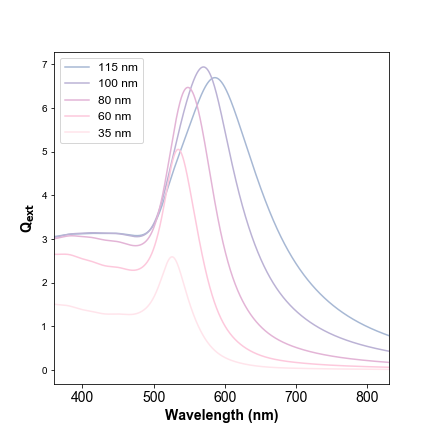
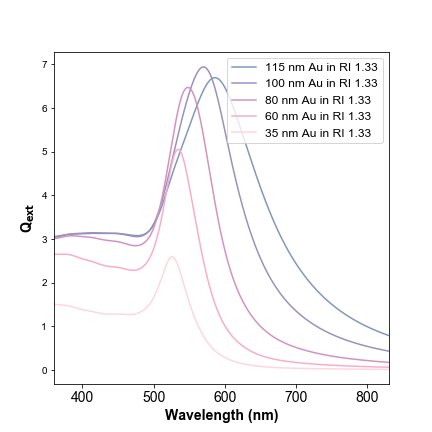
changed RI data to include multiple materials

diff --git a/modelNanoSize_Hall_monodisperse_modeling_noOpenCV_2_0.py b/modelNanoSize_Hall_monodisperse_modeling_noOpenCV_2_0.py
@@ -45,16 +45,25 @@ import PyMieScatt as ps
 import datetime
 from scipy.interpolate import interp1d
 import sys
-
-figureDPI=72
-savefigureFlag=True
-
 if sys.version_info >= (3, 0):
     import xarray as xr
     storeXarray=True
 else:
     storeXarray=False
-    
+
+
+material='Cu'
+ris=np.array([1.33, 1.38, 1.43]) 
+#ris=np.arange(1,2,0.005)
+diameters=np.array([115,100,80,60,35])
+#diameters=np.arange(30,120,1)
+diameter_stdevs=diameters*0.1
+opticalDensity=0.1
+#scaleFactorPoly=0.4
+figureDPI=72
+savefigureFlag=True
+
+   
 XYZtolRGB=np.array([[3.2406255,-1.537208,-0.4986286],[-0.9689307,1.8757561,0.0415175],[0.0557101,-0.2040211,1.0569959]])
 
 def single_gauss_func(x, a, x0, sigma):
@@ -170,36 +179,11 @@ D65=fD65(waves)
 illum=D65
 Yr=np.trapz(CIEY*illum, waves)
 
-nDataFrame=pd.read_csv('Johnson.csv',skiprows=0,nrows=49)
-kDataFrame=pd.read_csv('Johnson.csv',skiprows=50,nrows=49)
-fSplineN = interp1d(nDataFrame.values[:,0]*1000, nDataFrame.values[:,1], kind='cubic')
-fSplineK = interp1d(kDataFrame.values[:,0]*1000, kDataFrame.values[:,1], kind='cubic')
+riDataFrame=pd.read_csv('Johnson_ComplexRI.csv',skiprows=0,nrows=49)
+fSplineN = interp1d(riDataFrame['wl'].values*1000, riDataFrame[material+'_n'].values, kind='cubic')
+fSplineK = interp1d(riDataFrame['wl'].values*1000, riDataFrame[material+'_k'].values, kind='cubic')
 m=fSplineN(waves) + 1j * fSplineK(waves)
 
-#ris=np.arange(1,2,0.005)
-#diameters=np.arange(30,120,1)
-ris=np.array([1.33, 1.38, 1.43]) 
-diameters=np.array([115,100,80,60,35])
-diameter_stdevs=diameters*0.1
-
-#gen='G3'
-#diameter=34.1
-#diameter_stdev=6.7
-
-#gen='G5'
-#diameter=59.8
-#diameter_stdev=7.7
-
-#gen='G7'
-#diameter=81.5
-#diameter_stdev=7.6
-
-#gen='G9'
-#diameter=115
-#diameter_stdev=17
-
-scaleFactorMono=16
-scaleFactorPoly=0.4
 colorDataMono=[]
 colorDataPoly=[]
 bextArray=np.zeros((waves.shape[0]))
@@ -215,7 +199,7 @@ for diameter,diameter_stdev in zip(diameters,diameter_stdevs):
         wavelengths,qext,qsca,qabs,g,qpr,qback,qratio=ps.MieQ_withWavelengthRange(m, diameter, nMedium=ri, wavelengthRange=waves)
         lmax=waves[(waves>450) & (waves<800)][np.argmax(qext[(waves>450) & (waves<800)])]
         #RGB, HSV, LAB, XYZ, rgb, rat, RGBg=absorbanceToTristim(waves,qext/scaleFactorMono,Yr,gammaFlag=True)
-        RGB, XYZ, rgb, RGBg=absorbanceToRGB(waves,qext/scaleFactorMono,Yr,gammaFlag=True)
+        RGB, XYZ, rgb, RGBg=absorbanceToRGB(waves,qext*opticalDensity,Yr,gammaFlag=True)
         colorDataMono.append({'ri': ri,'diameter': diameter,'R':RGB[0],'G':RGB[1],'B':RGB[2],'r':rgb[0],'g':rgb[1],'b':rgb[2],'Rg':RGBg[0],'Gg':RGBg[1],'Bg':RGBg[2]})
         if storeXarray:
             mieEfficenciesDataArray.loc[dict(ri=ri,diameter=diameter,mie='qext')]=qext
@@ -301,7 +285,7 @@ opt.set_ylim([0, 5.2])
 opt.set_yticks(np.array([0,1,2,3,4,5]))
 opt.set_yticklabels(np.array([0,1,2,3,4,5]),fontsize = fontSizeLarge)
 if savefigureFlag:
-    figRI.savefig('RI.png', dpi=figureDPI)
+    figRI.savefig(material+'_RI.png', dpi=figureDPI)
 
 figExt,ext=plt.subplots(1,1,figsize=(6,6))
 ris=np.array([1.33]) 
@@ -315,10 +299,10 @@ for diameter in diameters:
             signal= dfmieEfficencies[(dfmieEfficencies['ri']==ri) & (dfmieEfficencies['diameter']==diameter)][mie].values[0]
         dfBool=(dfColorMono['diameter']==diameter) & (dfColorMono['ri']==ri)
         color=dfColorMono[dfBool][['Rg','Gg','Bg']].values
-        ext.plot(waves,signal,label=str(diameter)+" nm",color=color[0,:])
+        ext.plot(waves,signal,label=str(diameter)+" nm "+material+" in RI "+str(ri),color=color[0,:])
 ext.set_xlabel('Wavelength (nm)',fontsize = fontSizeLarge, fontweight='bold')
 ext.set_ylabel(r'Q$\mathbf{_{ext}}$',fontsize = fontSizeLarge, fontweight='bold')
-legend = ext.legend(loc='upper left',fontsize = fontSizeLegend)
+legend = ext.legend(loc='best',fontsize = fontSizeLegend)
 ext.set_xlim([360, 830])
 ext.set_xticks(np.array([400,500,600,700,800]))
 ext.set_xticklabels(np.array([400,500,600,700,800]),fontsize = fontSizeLarge)
@@ -326,4 +310,4 @@ ext.set_xticklabels(np.array([400,500,600,700,800]),fontsize = fontSizeLarge)
 #ext.set_yticks(np.array([0,.1,.2,.3,.4,.5]))
 #ext.set_yticklabels(np.array([0,.1,.2,.3,.4,.5]),fontsize = fontSizeLarge)
 if savefigureFlag:
-    figExt.savefig('Au_Ext.png', dpi=figureDPI)
+    figExt.savefig(material+'_Ext.png', dpi=figureDPI)
